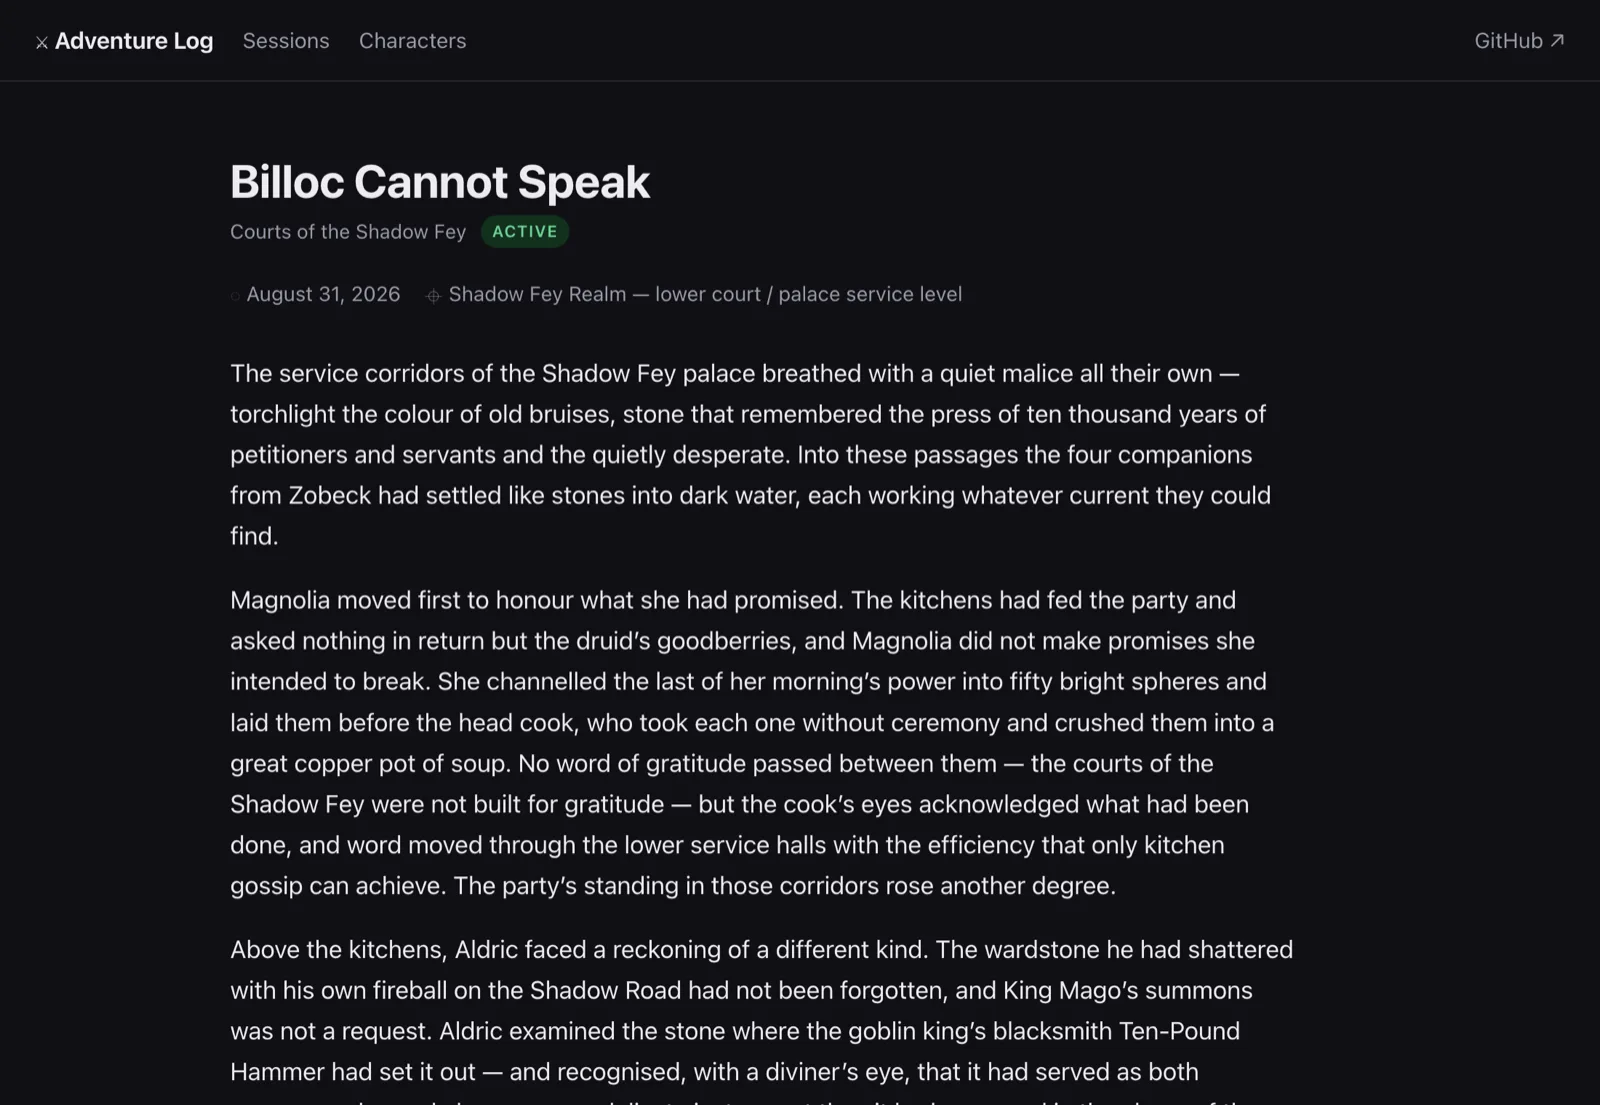
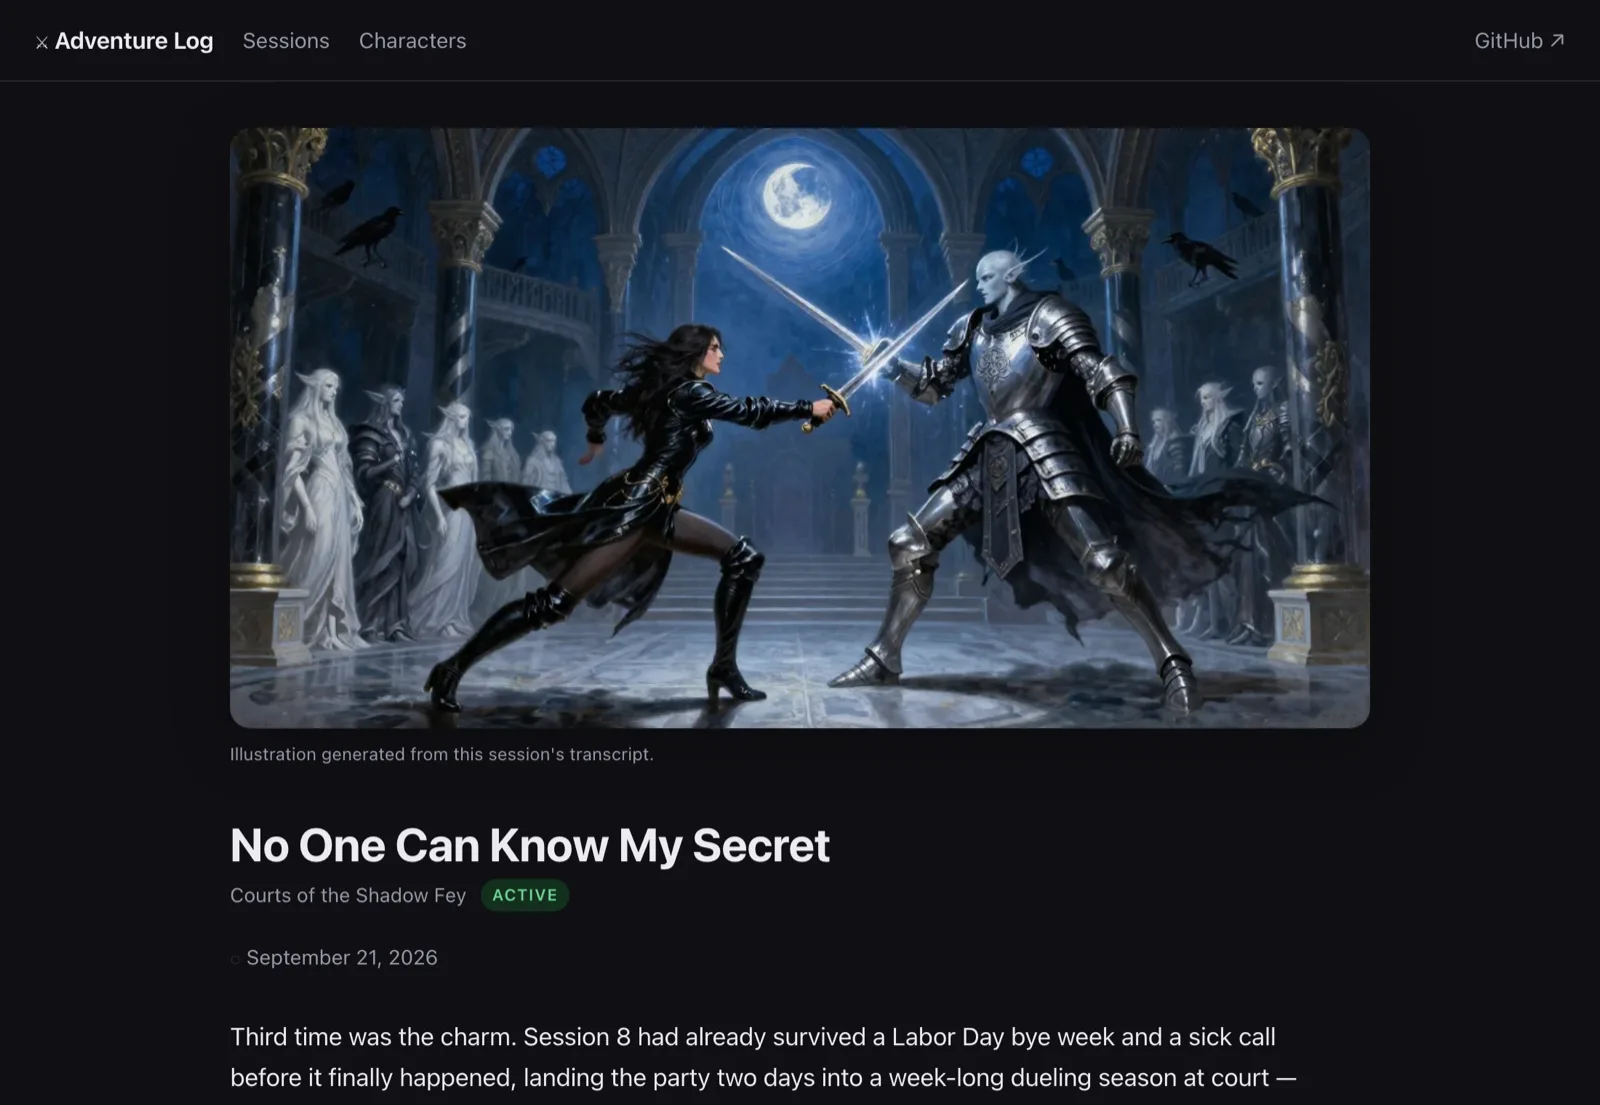
Show the journal as it looks now, painted opener and all
The homepage card and the case study still showed the journal before it had
art: dark text on dark. They now show its opener, the party entering the New
Moon Hall under the title, and a session headed by that night's duel.

diff --git a/site/index.html b/site/index.html
@@ -125,7 +125,7 @@
     moment.</figcaption>
   </figure>
   <figure class="wide">
-    <a href="/guide/worked-example/"><img src="/guide/images/adventure-log-home.webp" alt="Adventure Log, a D&amp;D campaign journal built from Transcripts' documents" loading="lazy" width="1600" height="1105"></a>
+    <a href="/guide/worked-example/"><img src="/guide/images/adventure-log-home.webp" alt="Adventure Log, a D&amp;D campaign journal built from Transcripts' documents: a painted party of four adventurers entering a moonlit fey hall full of crows, under the journal's title" loading="lazy" width="1600" height="1003"></a>
     <figcaption><strong>And what other programs make of them.</strong> One table
     records its D&amp;D nights with Transcripts, and another program turns each
     night's documents into a public campaign journal.

diff --git a/docs/guide/worked-example.md b/docs/guide/worked-example.md
@@ -13,7 +13,7 @@ machinery. It is a separate program that happens to read what Transcripts
 writes, which is the point of the example: the documents in your folder are a
 format other things can consume.
 
-![The Adventure Log journal: two campaigns, the one in play marked active, with its setting, DM and where the party was last seen](/guide/images/adventure-log-home.webp)
+![The Adventure Log journal opens on a painting of the party entering the Shadow Fey's New Moon Hall, generated from that session's transcript](/guide/images/adventure-log-home.webp)
 
 ## During the game
 
@@ -81,7 +81,7 @@ deliberately early.
 It also opens a pull request instead of pushing. A person reads the session
 before it goes up.
 
-![A journal entry written from one evening's transcripts](/guide/images/adventure-log-session.webp)
+![A journal entry written from one evening's transcripts, headed by an illustration of the night's duel at court](/guide/images/adventure-log-session.webp)
 
 ## One table, two campaigns
 
